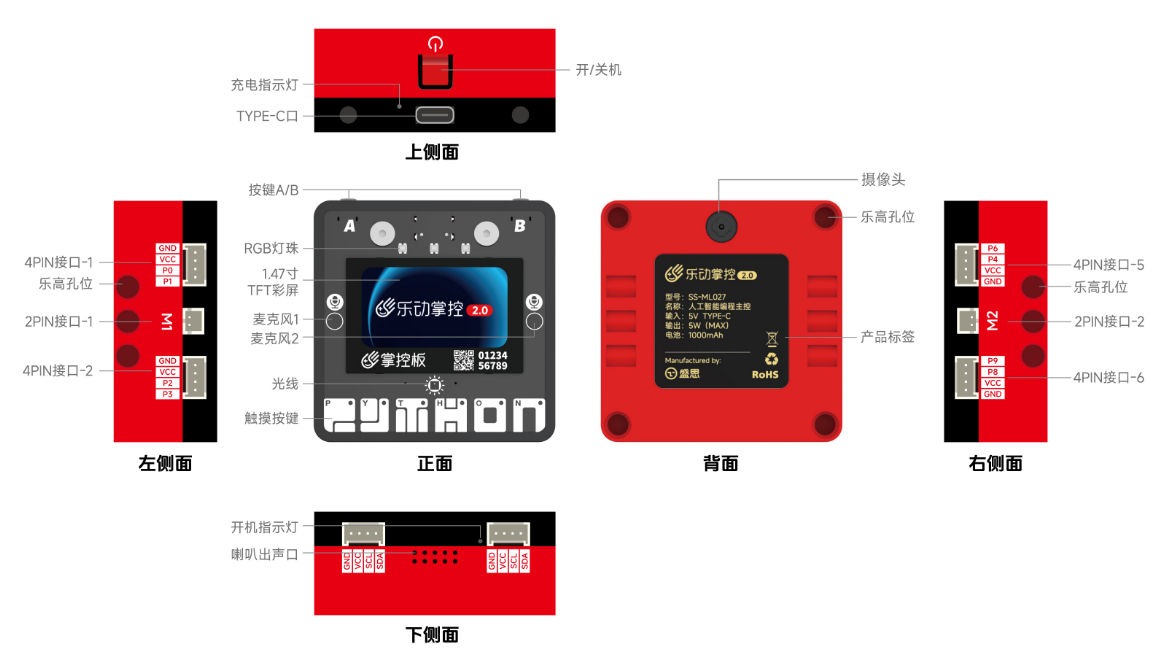
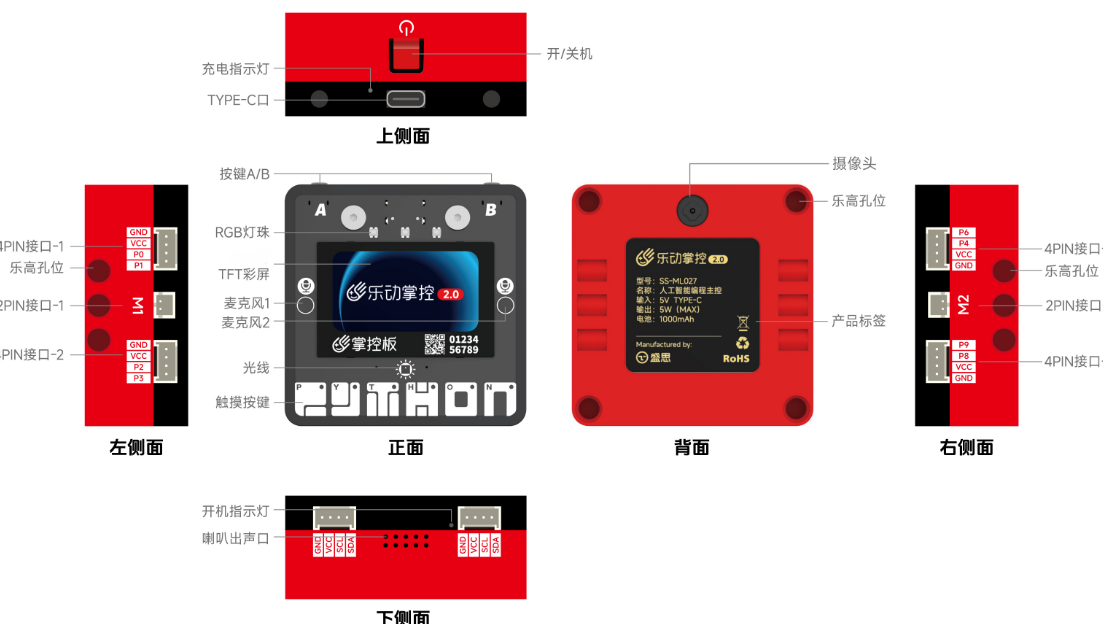
去除1.47

Changed region(s): [[0.0, 0.2436, 1.0, 0.7308], [0.185, 0.0, 0.5549, 0.2436], [0.185, 0.7612, 0.4932, 1.0]]

diff --git a/documentation/1_hardware/1_1_introduce.rst b/documentation/1_hardware/1_1_introduce.rst
@@ -11,7 +11,7 @@
 
 板载ESP32-S3双核芯片，支持WiFi和蓝牙双模通信。 
 
-板上集成1.47寸高清lcd彩屏、6轴（加速度+陀螺仪）、磁传感器、声音、数字光线传感器、2个物理按键、6个触摸按键、音频编解码芯片+喇叭。此外，还有一个阻性输入接口，方便接入各种阻性传感器。丰富多样的传感器和小体积的尺寸、结合蓝牙和WiFi双无线通讯，可现实不同的物联网应用场景。
+板上集成高清lcd彩屏、6轴（加速度+陀螺仪）、磁传感器、声音、数字光线传感器、2个物理按键、6个触摸按键、音频编解码芯片+喇叭。此外，还有一个阻性输入接口，方便接入各种阻性传感器。丰富多样的传感器和小体积的尺寸、结合蓝牙和WiFi双无线通讯，可现实不同的物联网应用场景。
 
 乐动掌控固件基于MicroPython及乐鑫物联网开发框架（ESP-IDF）二次开发，集成板载及常用外部模块驱动、物联网通信接口、音频录放、语音识别、语音合成、语言大模型应用编程等，结合mpython等上位机编程软件，可以通过编程实现丰富的应用场景。
 

diff --git a/documentation/3_examples/basics/lcd.rst b/documentation/3_examples/basics/lcd.rst
@@ -1,7 +1,7 @@
 显示
 ======================================
 
-掌控板2.0 板载1.47英寸lcd显示屏，分辨率320x172。内置 ``LVGL`` 的 ``lv_micropython`` 库，因此可以使用lvgl的相关API来进行屏幕绘制。
+掌控板2.0 板载lcd显示屏，分辨率320x172。内置 ``LVGL`` 的 ``lv_micropython`` 库，因此可以使用lvgl的相关API来进行屏幕绘制。
 
 .. _lvgl_url: https://docs.lvgl.io/master
 .. _lv_micropython: https://github.com/lvgl/lv_micropython

diff --git a/documentation/1_hardware/1_2_Technical_parameters.rst b/documentation/1_hardware/1_2_Technical_parameters.rst
@@ -24,7 +24,7 @@
 
     -- 支持flash在线编程"
 
-    "2", "屏幕", "1.47寸高清LCD彩屏,分辨率：320x172 型号：st7789"
+    "2", "屏幕", "高清LCD彩屏,分辨率：320x172 型号：st7789"
     "3", "实体按键", "(A/B/电源开关机键)"
     "4", "触摸按键", "(P/Y/T/H/O/N)，电容式触摸按键"
     "5", "PSRAM", "8MB"
